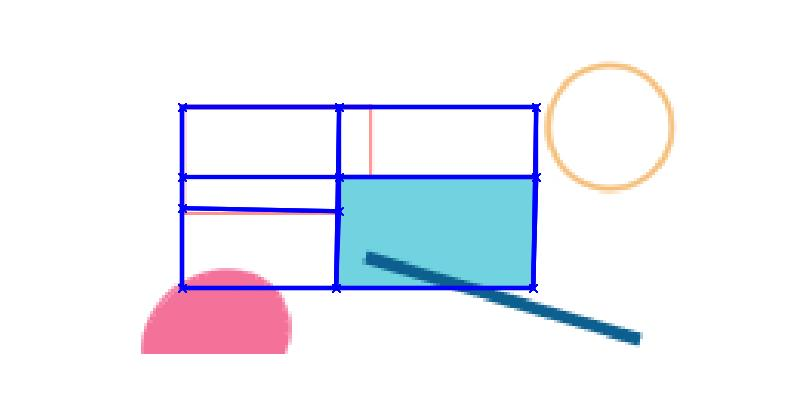
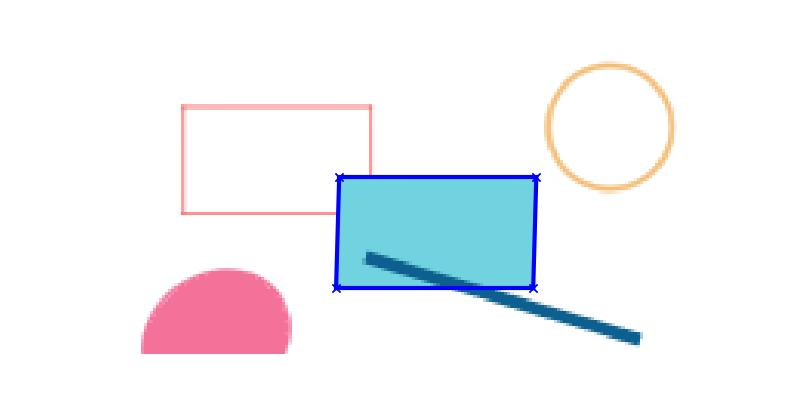
changed some threshold values

Changed region(s): [[0.2188, 0.24, 0.6875, 0.75], [0.6562, 0.69, 0.6875, 0.72]]

diff --git a/objectDetection/houth_ transform/line_detection.py b/objectDetection/houth_ transform/line_detection.py
@@ -177,10 +177,11 @@ for i in range (len(corners)-1,-1,-1):#*?为什么要从后往前遍历
   std=np.std(np.concatenate([img_gray[(ylin[2:-2]),(xlin[2:-2])],\
                              img_gray[(ylin2[2:-2]),(xlin2[2:-2])]]))
   print('std:',std)
-  #*?这里的7是怎么选出来的?
-  '''if std>7:
-      del corners[i]#*for test。暂时屏蔽掉它
-      continue'''
+  #*?原文里是7,这个数字该怎么选?
+  #if std>7:
+  if std>20:
+      del corners[i]
+      continue
 
   #*?这里也没太看懂
   #Remove if brighter: The requirement by task is fulfilled by checking the 
@@ -204,9 +205,9 @@ for i in range (len(corners)-1,-1,-1):#*?为什么要从后往前遍历
       a=(np.array(corners[i][j+1])+np.array(corners[i][j]))/2+[int(x),int(y)]
       if img_gray[int(a[1]),int(a[0])]-averageInside<5:
           delete=1
-  '''if delete==1:
-      del corners[i]#*for test。暂时屏蔽掉它
-      continue'''
+  if delete==1:
+      del corners[i]
+      continue
 
 #去除部分重叠的矩形(同片区域只保留最好的一个)
 sumi=np.zeros(len(corners))
@@ -239,7 +240,7 @@ if len(corners)>0:
   for i in range (len(corners)-2,-1,-1):
       found=0
       for j in range (len(corners2)-1,-1,-1):
-          if hough_functions.getLength(\
+          if hough_functions.getLength(
               middlePoint[corners2[j]],middlePoint[i])<=maxDistance:
               found=1
               if sumi[i]>sumi[corners2[j]]:
